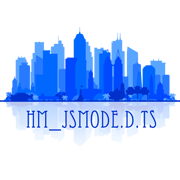
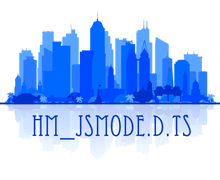
コミット

diff --git a/README.md b/README.md
@@ -10,7 +10,7 @@
 
 <a href="https://xn--pckzexbx21r8q9b.net/?page=nobu_tool_hm_dotnet"><img src="index_title_cs.png" width="90" height="90"></a>
 <a href="https://xn--pckzexbx21r8q9b.net/?page=nobu_tool_hm_dotnet_pinvoke"><img src="index_title_cs_com.png" width="90" height="90"></a>
-<a href="https://xn--pckzexbx21r8q9b.net/?page=nobu_tool_hm_jsmode_ts_difinition"><img src="index_title_jsmode_ts.png" width="90" height="90"></a>
+<a href="https://xn--pckzexbx21r8q9b.net/?page=nobu_tool_hm_jsmode_ts_difinition"><img src="index_title_jsmode_ts.png" width="110" height="90"></a>
 <a href="https://xn--pckzexbx21r8q9b.net/?page=nobu_tool_hm_python3"><img src="index_title_py.png" width="90" height="90"></a>
 <a href="https://xn--pckzexbx21r8q9b.net/?page=nobu_tool_hm_ecmascript"><img src="index_title_v8.png" width="90" height="90"></a>
 <a href="https://xn--pckzexbx21r8q9b.net/?page=nobu_tool_hm_php"><img src="index_title_php.png" width="90" height="90"></a>
